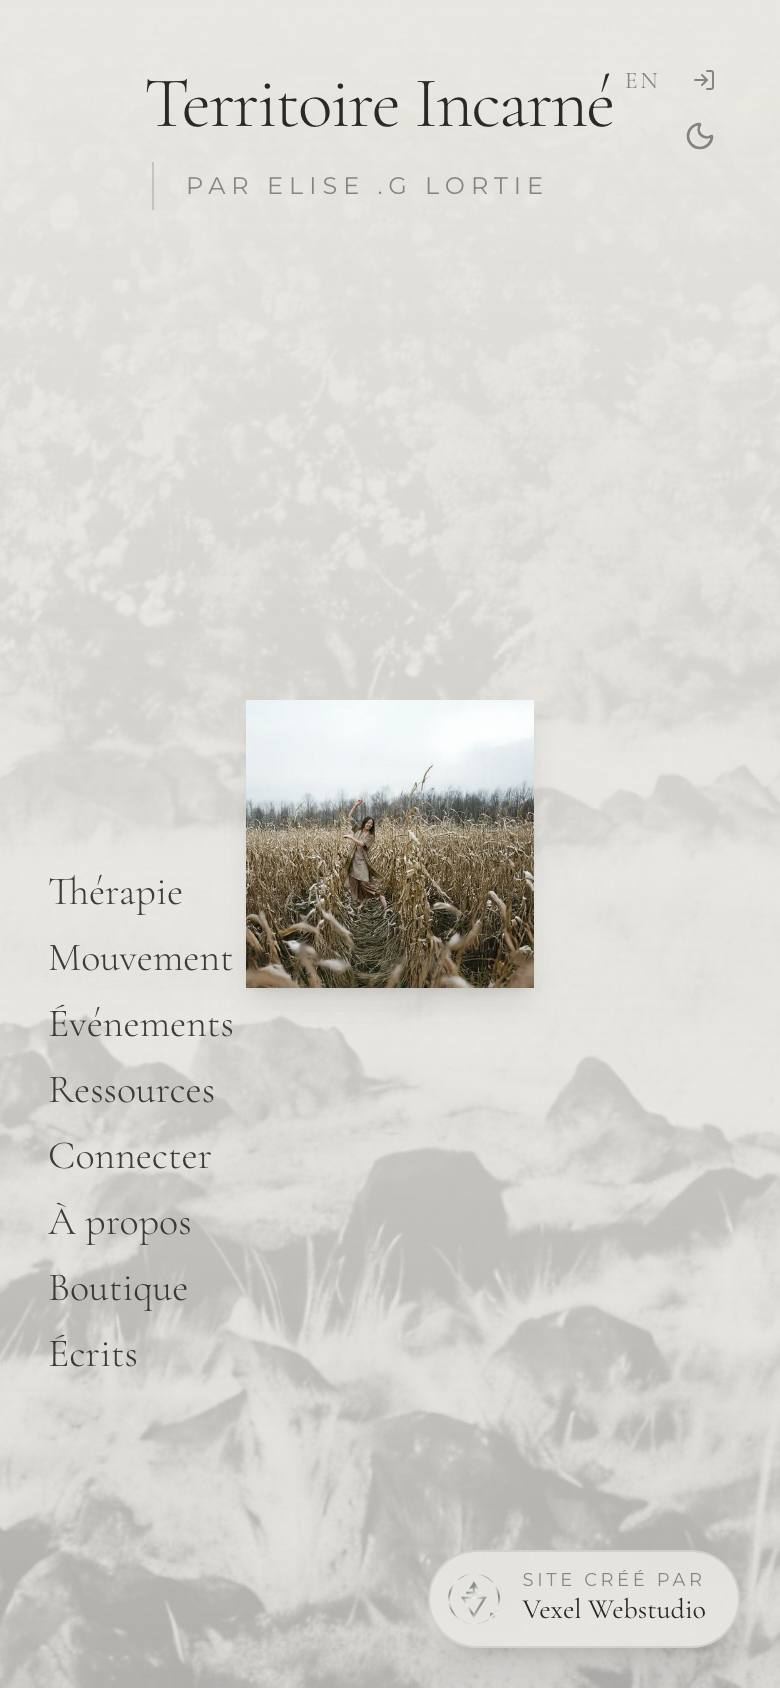
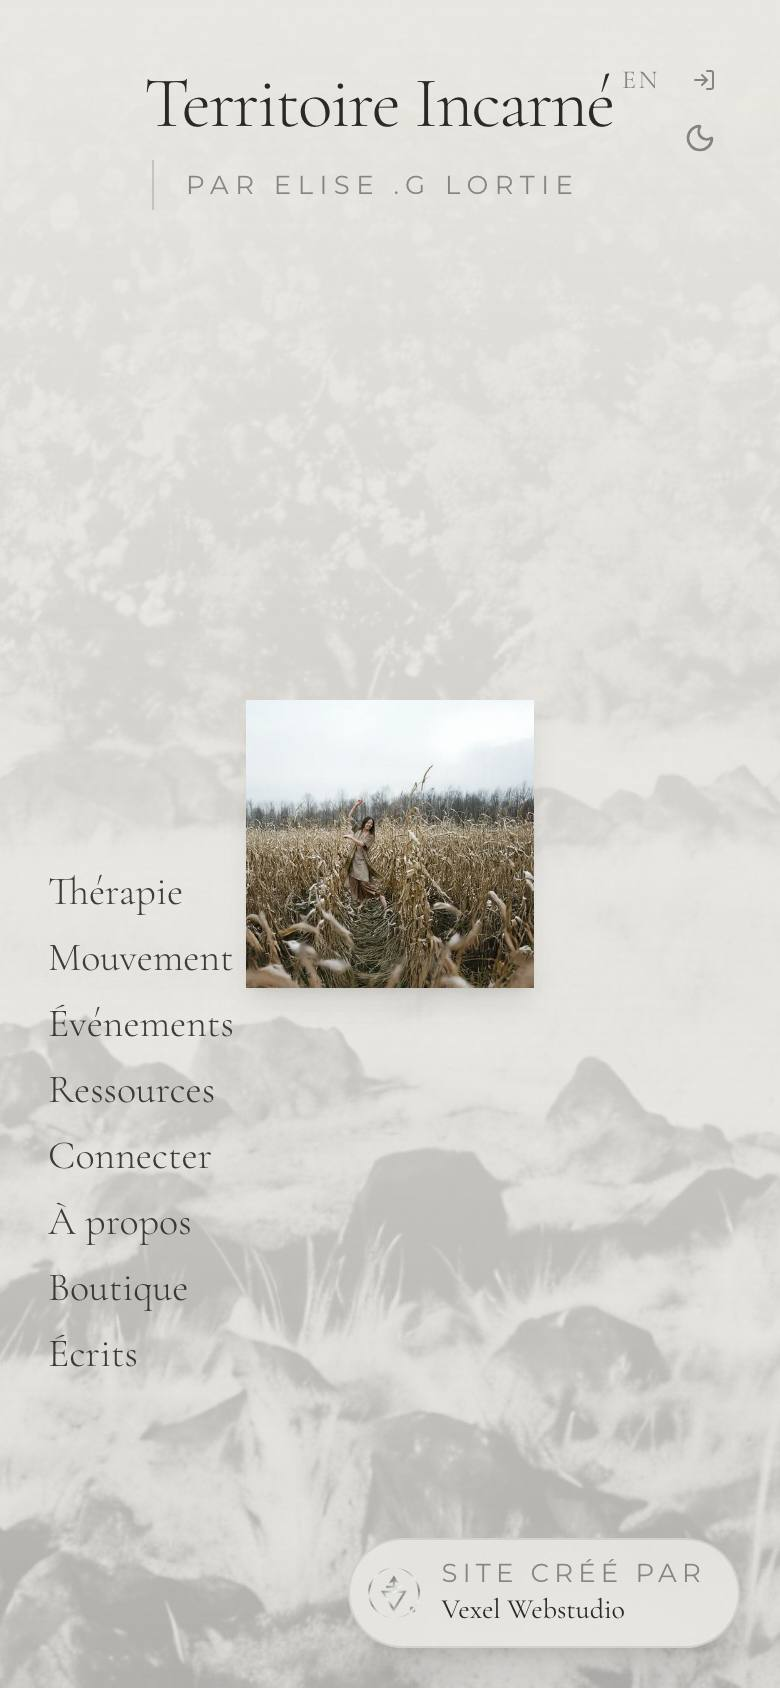
autosave: 2026-09-11 11:27:48

diff --git a/src/styles/index.css b/src/styles/index.css
@@ -75,7 +75,7 @@ body {
   font-weight: 600;
   text-transform: uppercase;
   letter-spacing: 0.28em;
-  font-size: 0.7rem;
+  font-size: 0.8125rem; /* 13px : jamais moins, règle dure */
   color: #8c5e45;
 }
 
